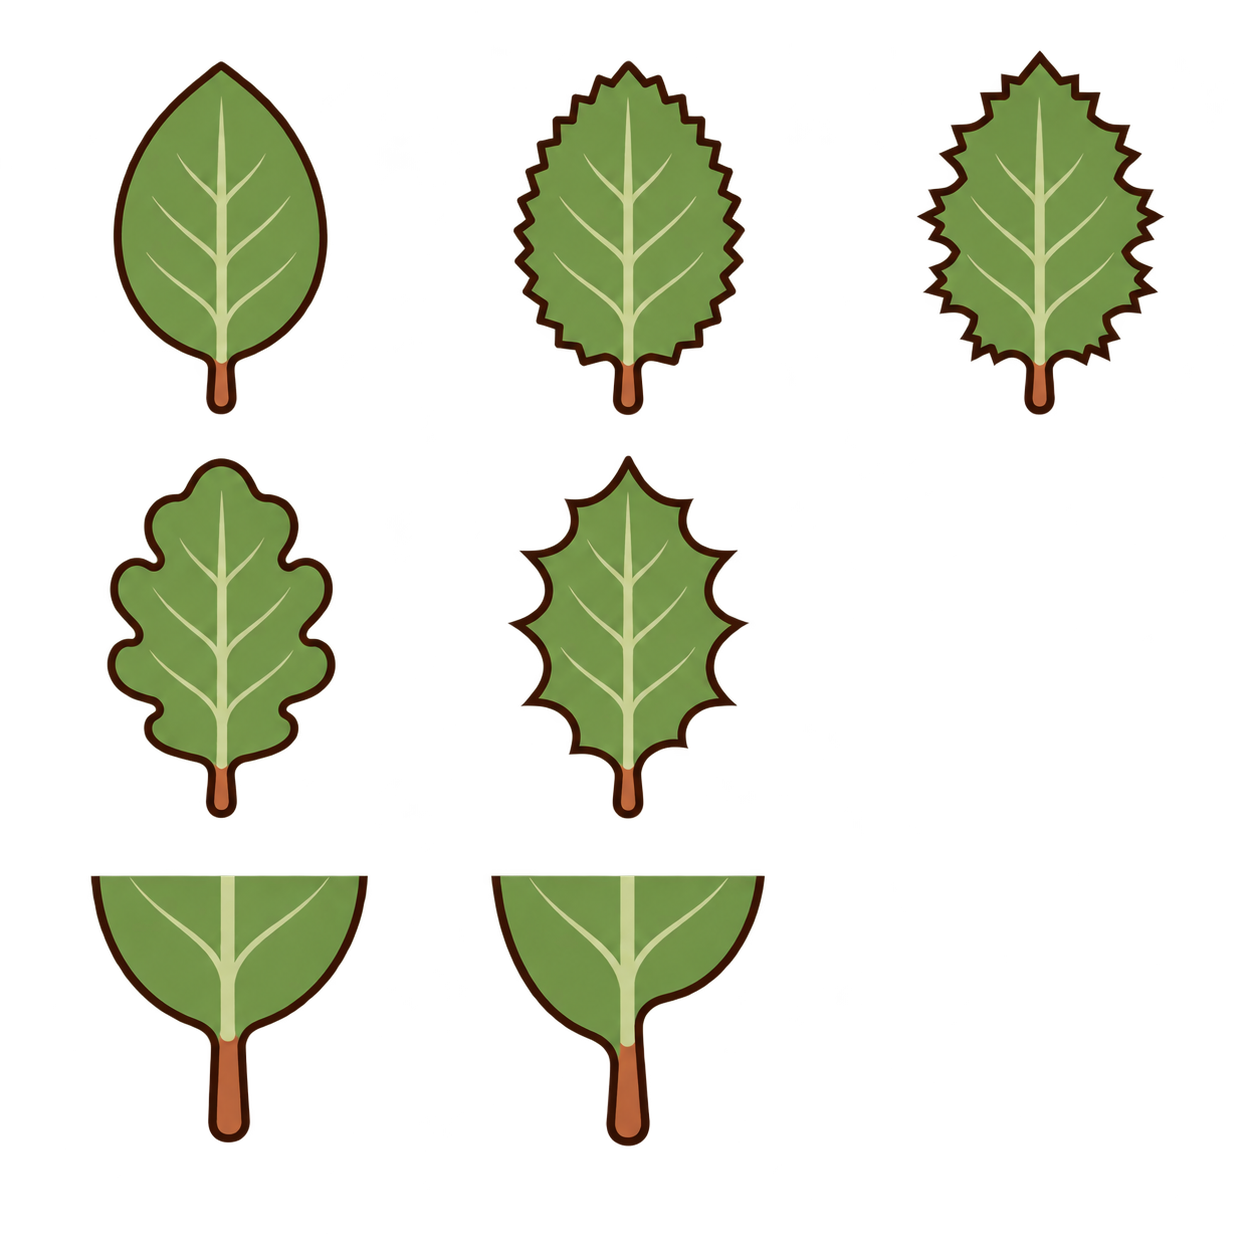
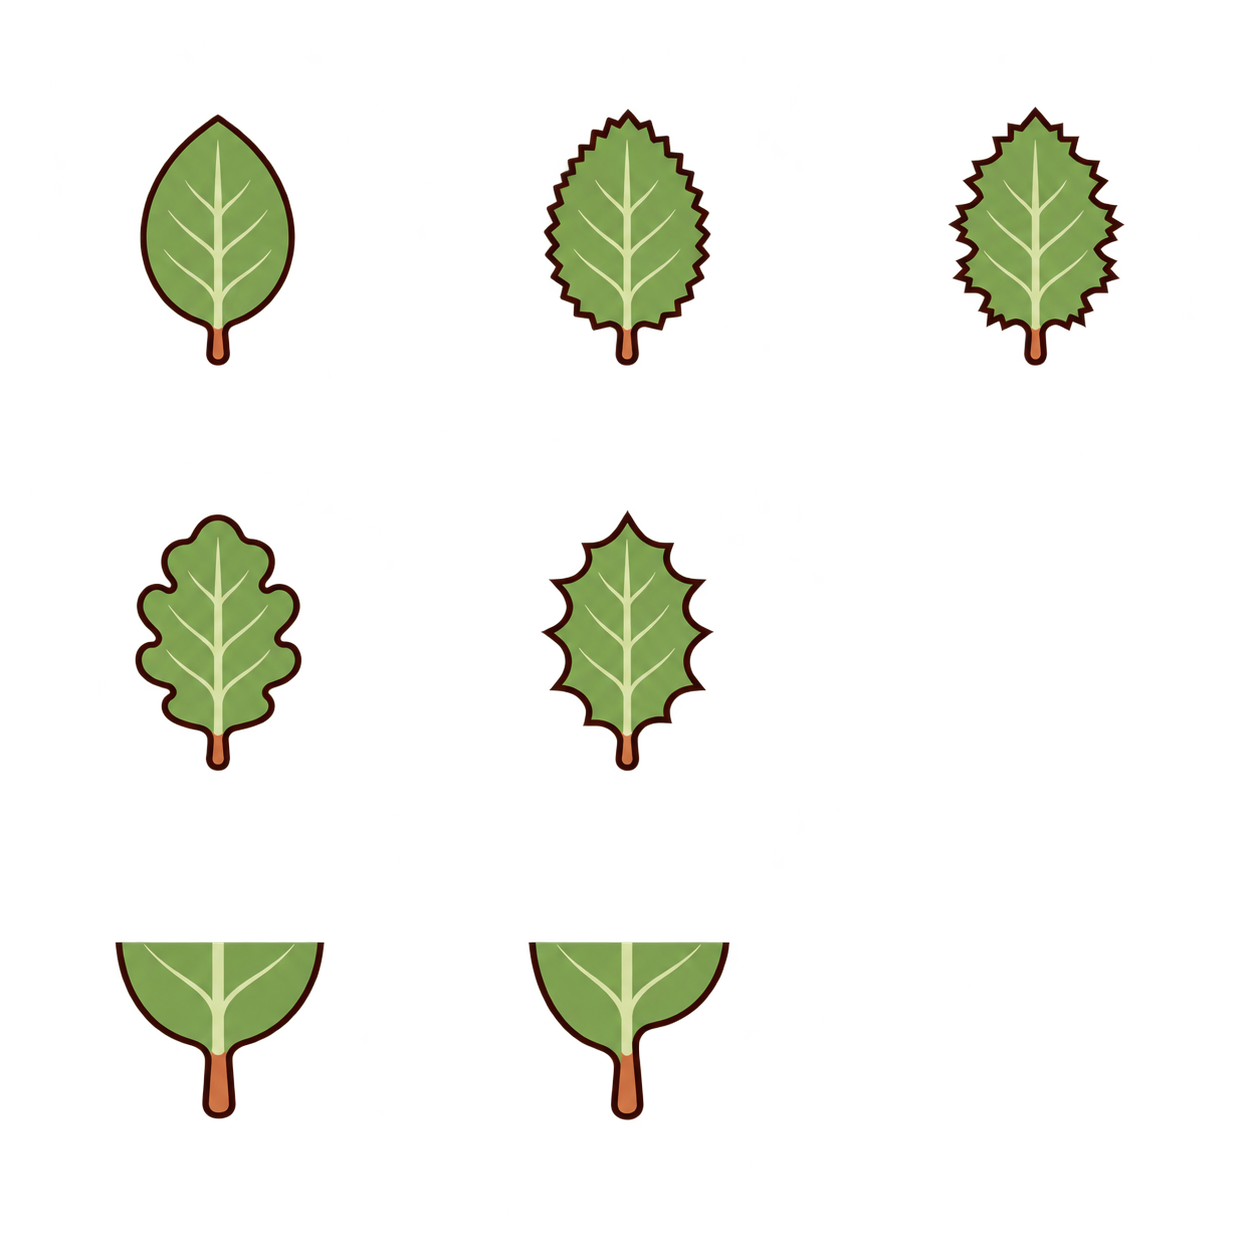
Rigenera tavola alberi 03 con margine trasparente del 10%

diff --git a/incoming/bozze/STATO.md b/incoming/bozze/STATO.md
@@ -177,7 +177,7 @@ Ordine aggiornato da Matteo il 15/10: completare prima tutte le varianti di colo
 
 | icone/varianti-03.png | amanita-verna: colore:crema; amanita-muscaria: colore:arancio; amanita-muscaria: colore:giallo | ok | QA visiva completata; 6 icone, alpha reale, terza colonna vuota. Basi nel manifest. |
 | icone-alberi/tavola-alberi-04.png | 0: leaf_shape/ovale; 1: leaf_shape/lanceolata; 2: leaf_shape/tondeggiante; 3: leaf_shape/cuoriforme; 4: leaf_shape/triangolare; 5: leaf_shape/lobata_a_mano; 6: leaf_shape/lobata_lungo_i_lati | ok | Sette forme distinte, margini lisci anche nelle due foglie lobate. Forma palmata con lobi radiali e forma quercia con lobi lungo asse. Verificate a 64 px per cella; PNG RGBA 1254×1254. |
-| icone-alberi/tavola-alberi-03.png | 0: leaf_margin/intero; 1: leaf_margin/dentato; 2: leaf_margin/doppiamente_dentato; 3: leaf_margin/lobato; 4: leaf_margin/spinoso; 6: leaf_base/simmetrica; 7: leaf_base/asimmetrica | ok | Confronto bordo su stessa foglia ovale e verde; base in primo piano con asimmetria accentuata. Verificati alpha e resa a64px. Limite: dentatura doppia ancora meno immediata a48px; dettagli dei denti secondari minuti. |
+| icone-alberi/tavola-alberi-03.png | 0: leaf_margin/intero; 1: leaf_margin/dentato; 2: leaf_margin/doppiamente_dentato; 3: leaf_margin/lobato; 4: leaf_margin/spinoso; 6: leaf_base/simmetrica; 7: leaf_base/asimmetrica | ok, margini corretti | Rigenerata per margine10%. Controllo codice su9celle e fasce42px: zero pixel alpha>1/255, zero opachi; residuo generatore alpha1/255. Limite: doppiamente_dentato semplificato, denti secondari poco immediati a48px. Basi simmetrica/asimmetrica verificate. |
 
 | icone/varianti-04.png | caesarea: colore:rosso; caesarea: colore:giallo; amanita-crocea: colore:giallo | ok | QA visiva completata; 6 icone, alpha reale, terza colonna vuota. Basi nel manifest. |
 
